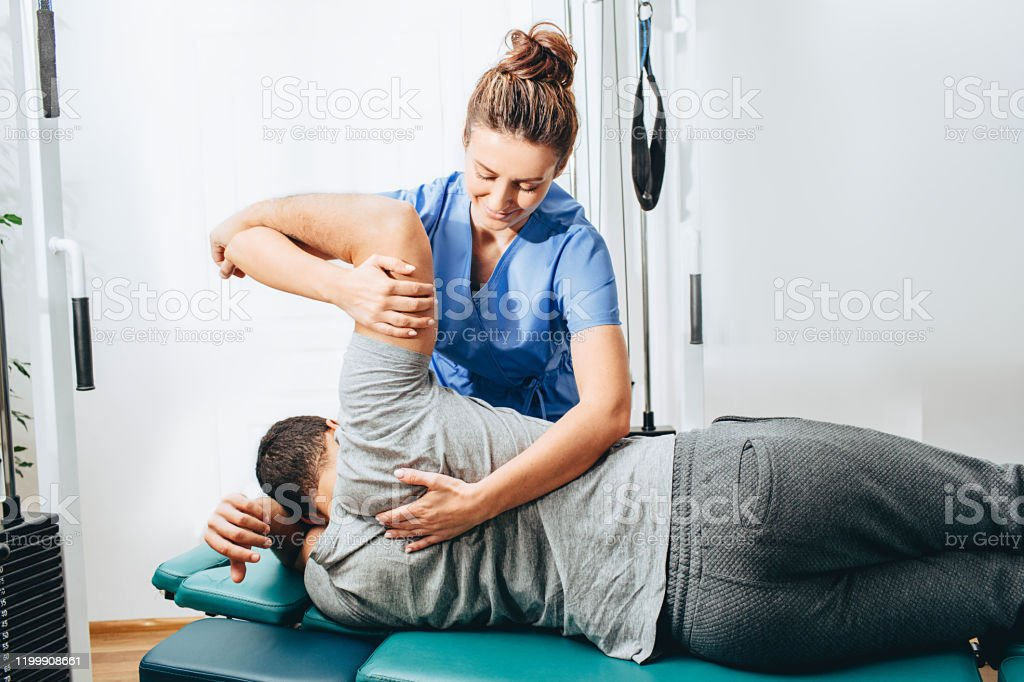
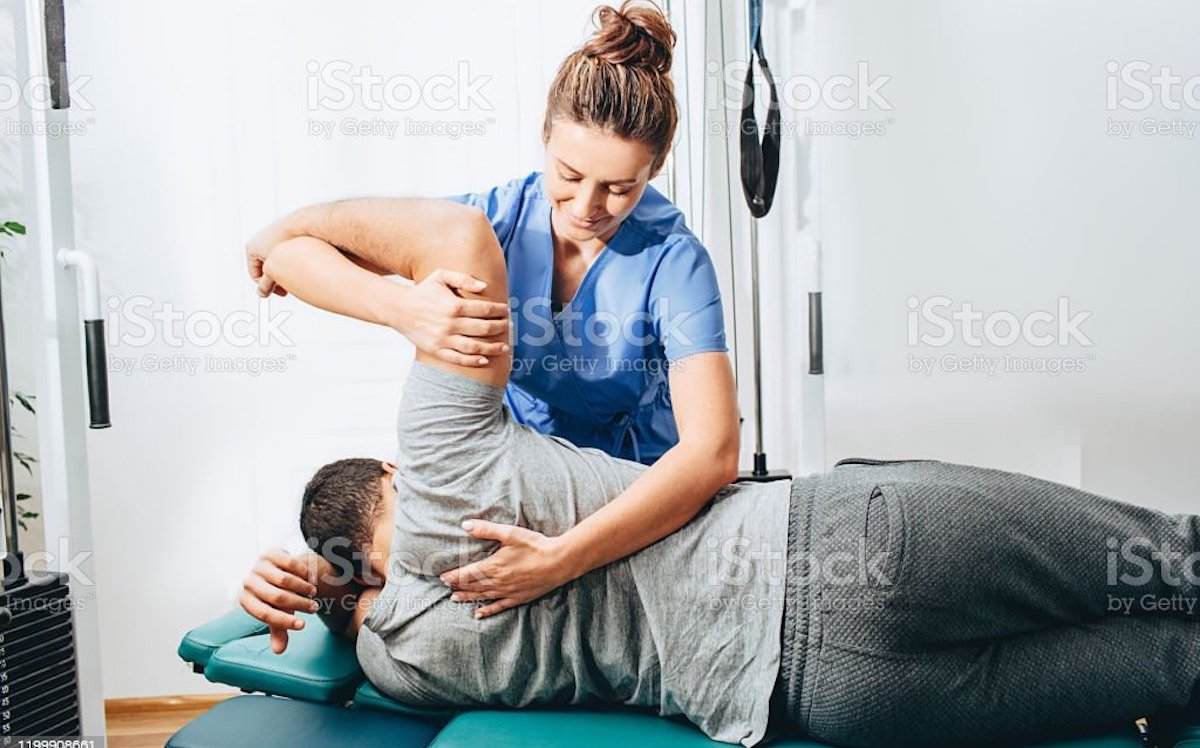
hero filler img finished

diff --git a/src/components/UI/Styles/Global.styles.js b/src/components/UI/Styles/Global.styles.js
@@ -1,4 +1,3 @@
-
 import {createGlobalStyle} from "styled-components";
 import styled from "styled-components";
 
@@ -10,52 +9,62 @@ import styled from "styled-components";
 const GlobalStyles = createGlobalStyle`
 
 
-html, body, div, span, applet, object, iframe,
-    h1, h2, h3, h4, h5, h6, p, blockquote, pre,
-    a, abbr, acronym, address, big, cite, code,
-    del, dfn, em, img, ins, kbd, q, s, samp,
-    small, strike, strong, sub, sup, tt, var,
-b, u, i, center,
-    dl, dt, dd, ol, ul, li,
-    fieldset, form, label, legend,
-    table, caption, tbody, tfoot, thead, tr, th, td,
-    article, aside, canvas, details, embed,
-    figure, figcaption, footer, header, hgroup,
-    menu, nav, output, ruby, section, summary,
-    time, mark, audio, video {
+  html, body, div, span, applet, object, iframe,
+  h1, h2, h3, h4, h5, h6, p, blockquote, pre,
+  a, abbr, acronym, address, big, cite, code,
+  del, dfn, em, img, ins, kbd, q, s, samp,
+  small, strike, strong, sub, sup, tt, var,
+  b, u, i, center,
+  dl, dt, dd, ol, ul, li,
+  fieldset, form, label, legend,
+  table, caption, tbody, tfoot, thead, tr, th, td,
+  article, aside, canvas, details, embed,
+  figure, figcaption, footer, header, hgroup,
+  menu, nav, output, ruby, section, summary,
+  time, mark, audio, video {
     margin: 0;
     padding: 0;
     border: 0;
     font-size: 100%;
     font: inherit;
     vertical-align: baseline;
-}
-/* HTML5 display-role reset for older browsers */
-article, aside, details, figcaption, figure,
-    footer, header, hgroup, menu, nav, section {
+  }
+
+  /* HTML5 display-role reset for older browsers */
+  article, aside, details, figcaption, figure,
+  footer, header, hgroup, menu, nav, section {
     display: block;
-}
-body {
+  }
+
+  body {
     line-height: 1;
-}
-ol, ul {
+  }
+
+  ol, ul {
     list-style: none;
-}
-blockquote, q {
+  }
+
+  blockquote, q {
     quotes: none;
-}
-blockquote:before, blockquote:after,
-    q:before, q:after {
+  }
+
+  blockquote:before, blockquote:after,
+  q:before, q:after {
     content: '';
     content: none;
-}
-table {
+  }
+
+  table {
     border-collapse: collapse;
     border-spacing: 0;
-}
-    `
+  }
+`
 export default GlobalStyles
 
 export const Header1 = styled.h1`
-    font-size: 6.5rem;
+  font-size: 6.5rem;
+  position: absolute;
+  top: 50%;
+  left: 50%;
+  transform: translate(-50%, -50%);
 `

diff --git a/src/components/UI/Styles/Hero.styles.js b/src/components/UI/Styles/Hero.styles.js
@@ -1,17 +1,15 @@
 import styled from "styled-components";
-import img from "../img/hero-holder.jpg"
 
 
 export const HeroContainer = styled.div`
-  background-image: url(${img});
-  -webkit-background-size: cover;
-  -moz-background-size: cover;
-  -o-background-size: cover;
-  background-size: cover;
-  min-height: 500px;
   display: flex;
   align-items: center;
   justify-content: center;
+  position: relative;
   
 `
+export const HeroImg = styled.img`
+width: 100%;
+`
+
 

diff --git a/src/components/UI/Pages/Hero.js b/src/components/UI/Pages/Hero.js
@@ -1,9 +1,11 @@
 
-import {HeroContainer} from "../Styles/Hero.styles";
+import {HeroContainer, HeroImg} from "../Styles/Hero.styles";
 import  {Header1 } from "../Styles/Global.styles";
+import Img from "../img/hero-holder.jpg"
 const Hero = () => {
     return(
         <HeroContainer>
+            <HeroImg src={Img} alt="" />
             <Header1> SC Bodywork!!!</Header1>
         </HeroContainer>
     )

diff --git a/src/components/UI/Styles/PageBody.styles.js b/src/components/UI/Styles/PageBody.styles.js
@@ -3,7 +3,6 @@ import styled from "styled-components";
 
 export const PageBodyContainer = styled.div`
   min-height: 700px;
-  background-color: blue;
   display: flex;
   align-items: center;
   justify-content: space-evenly;
